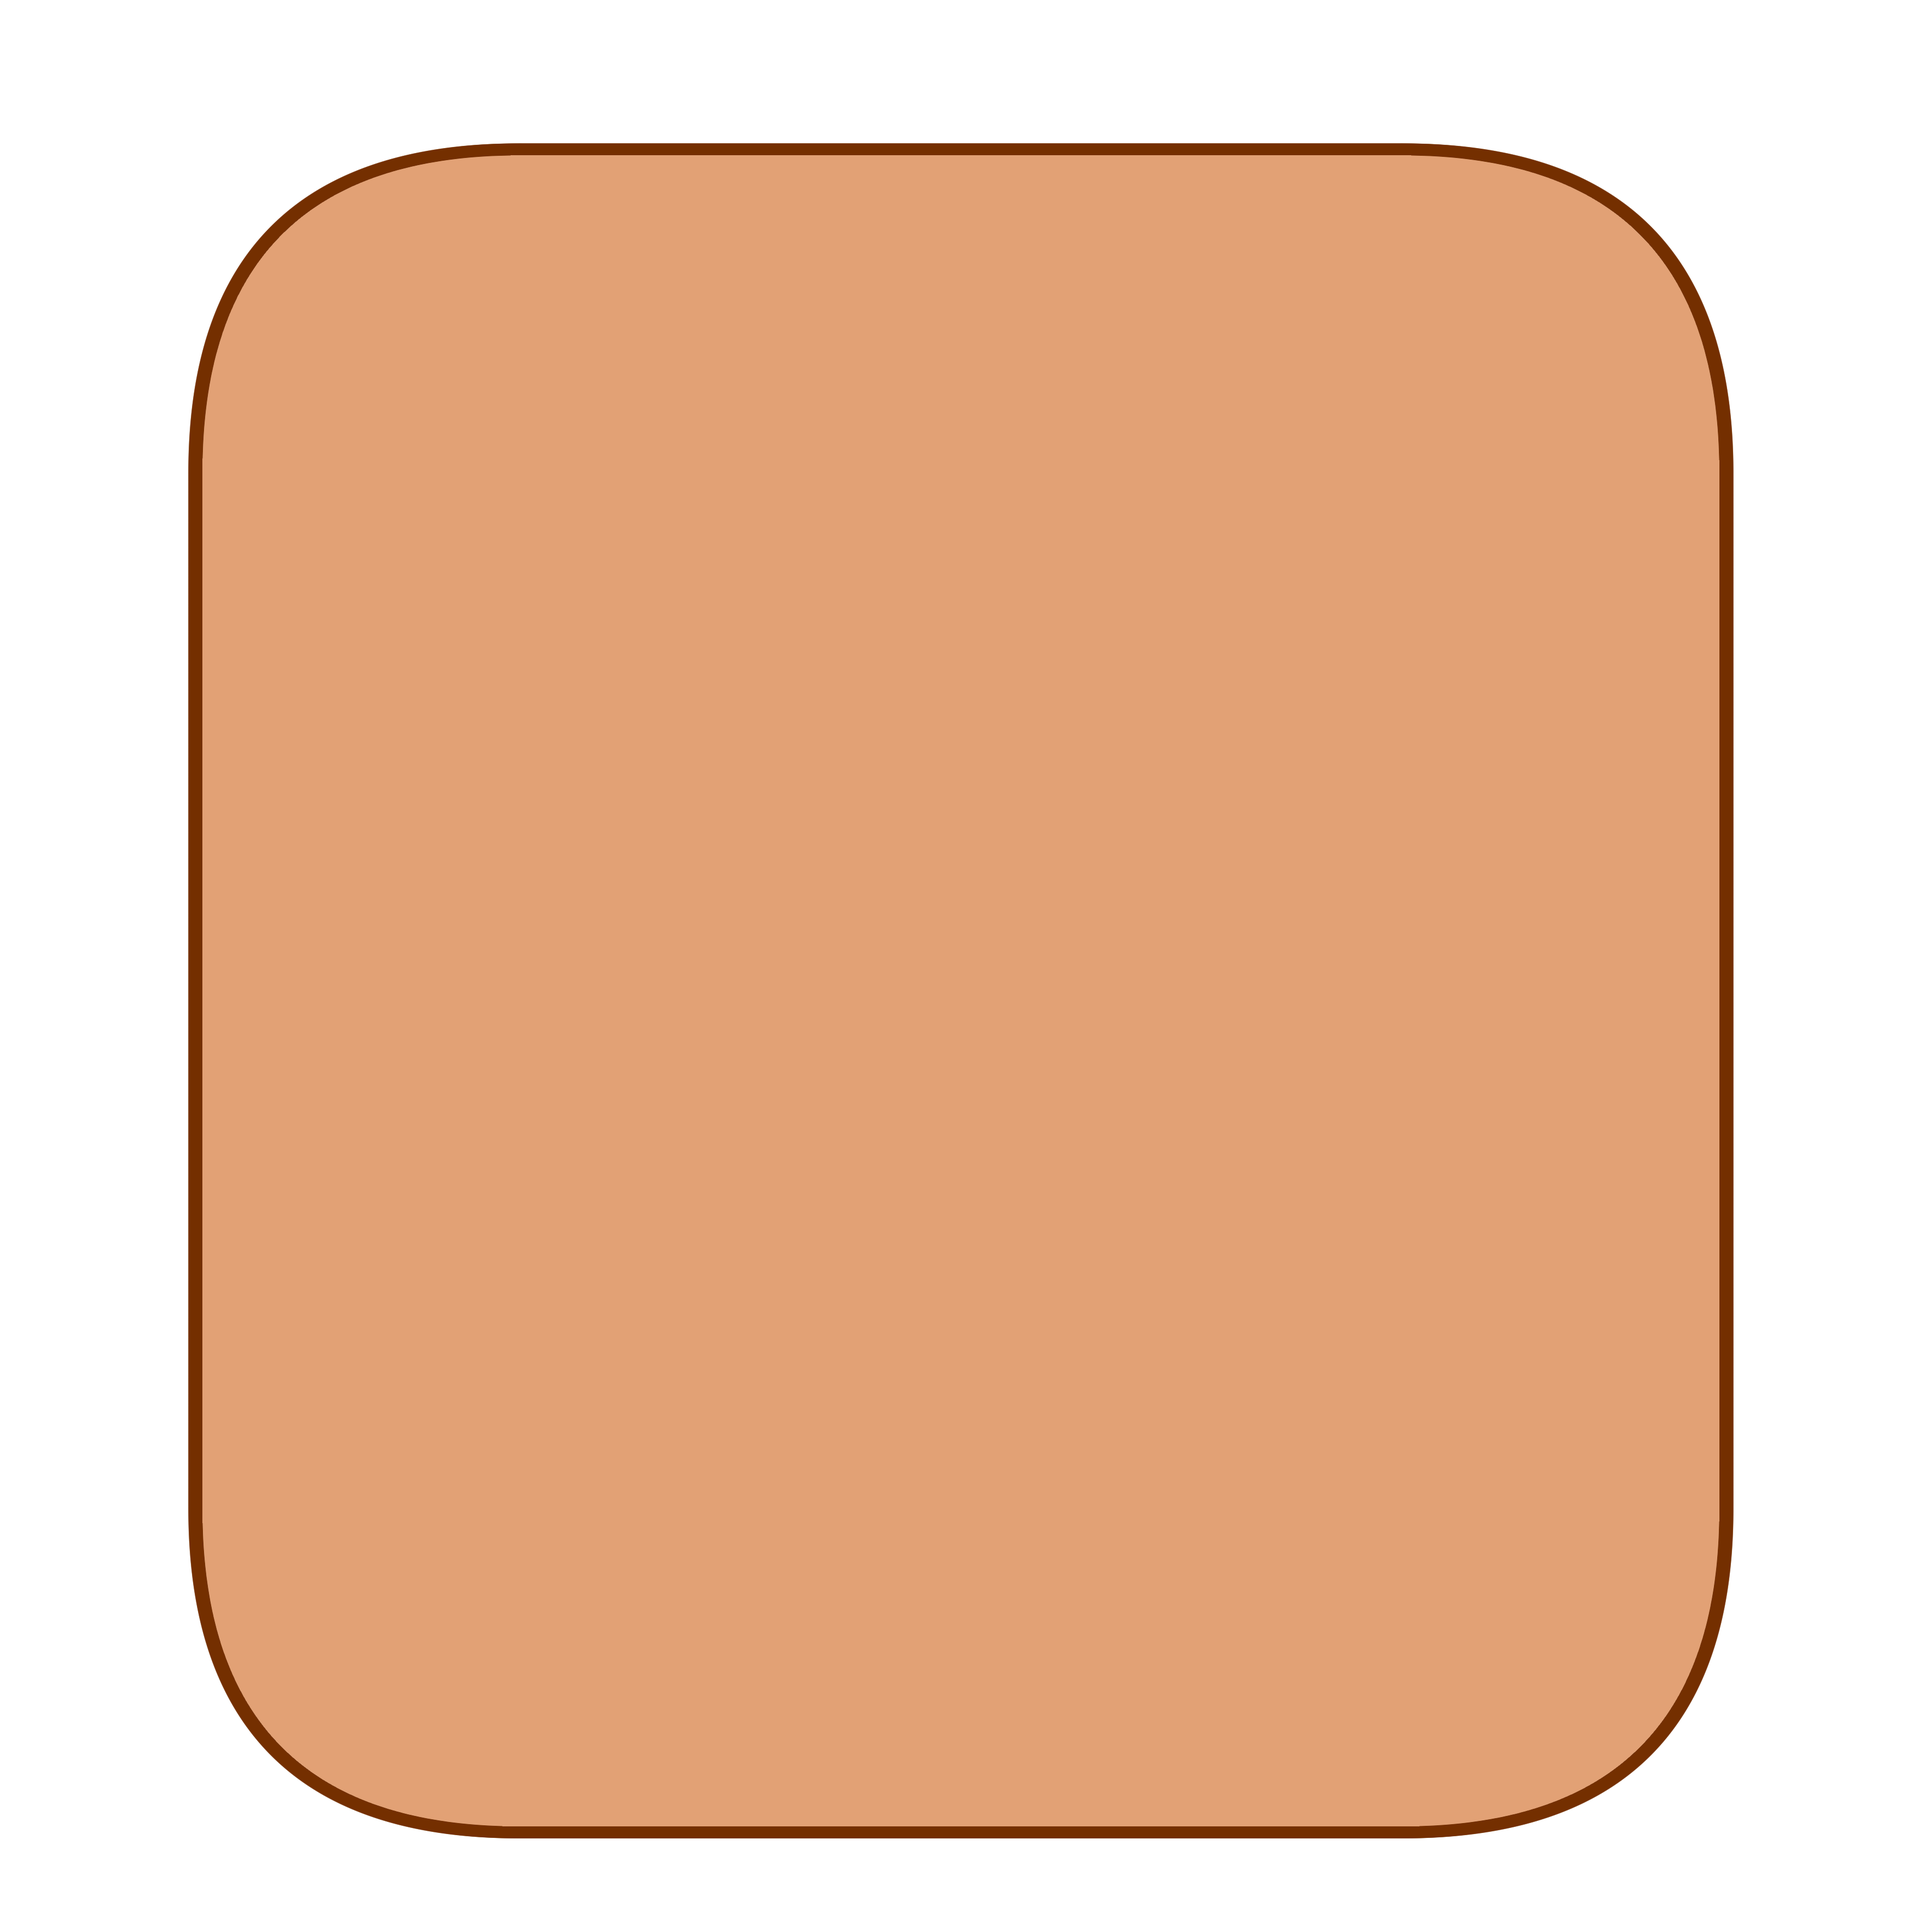
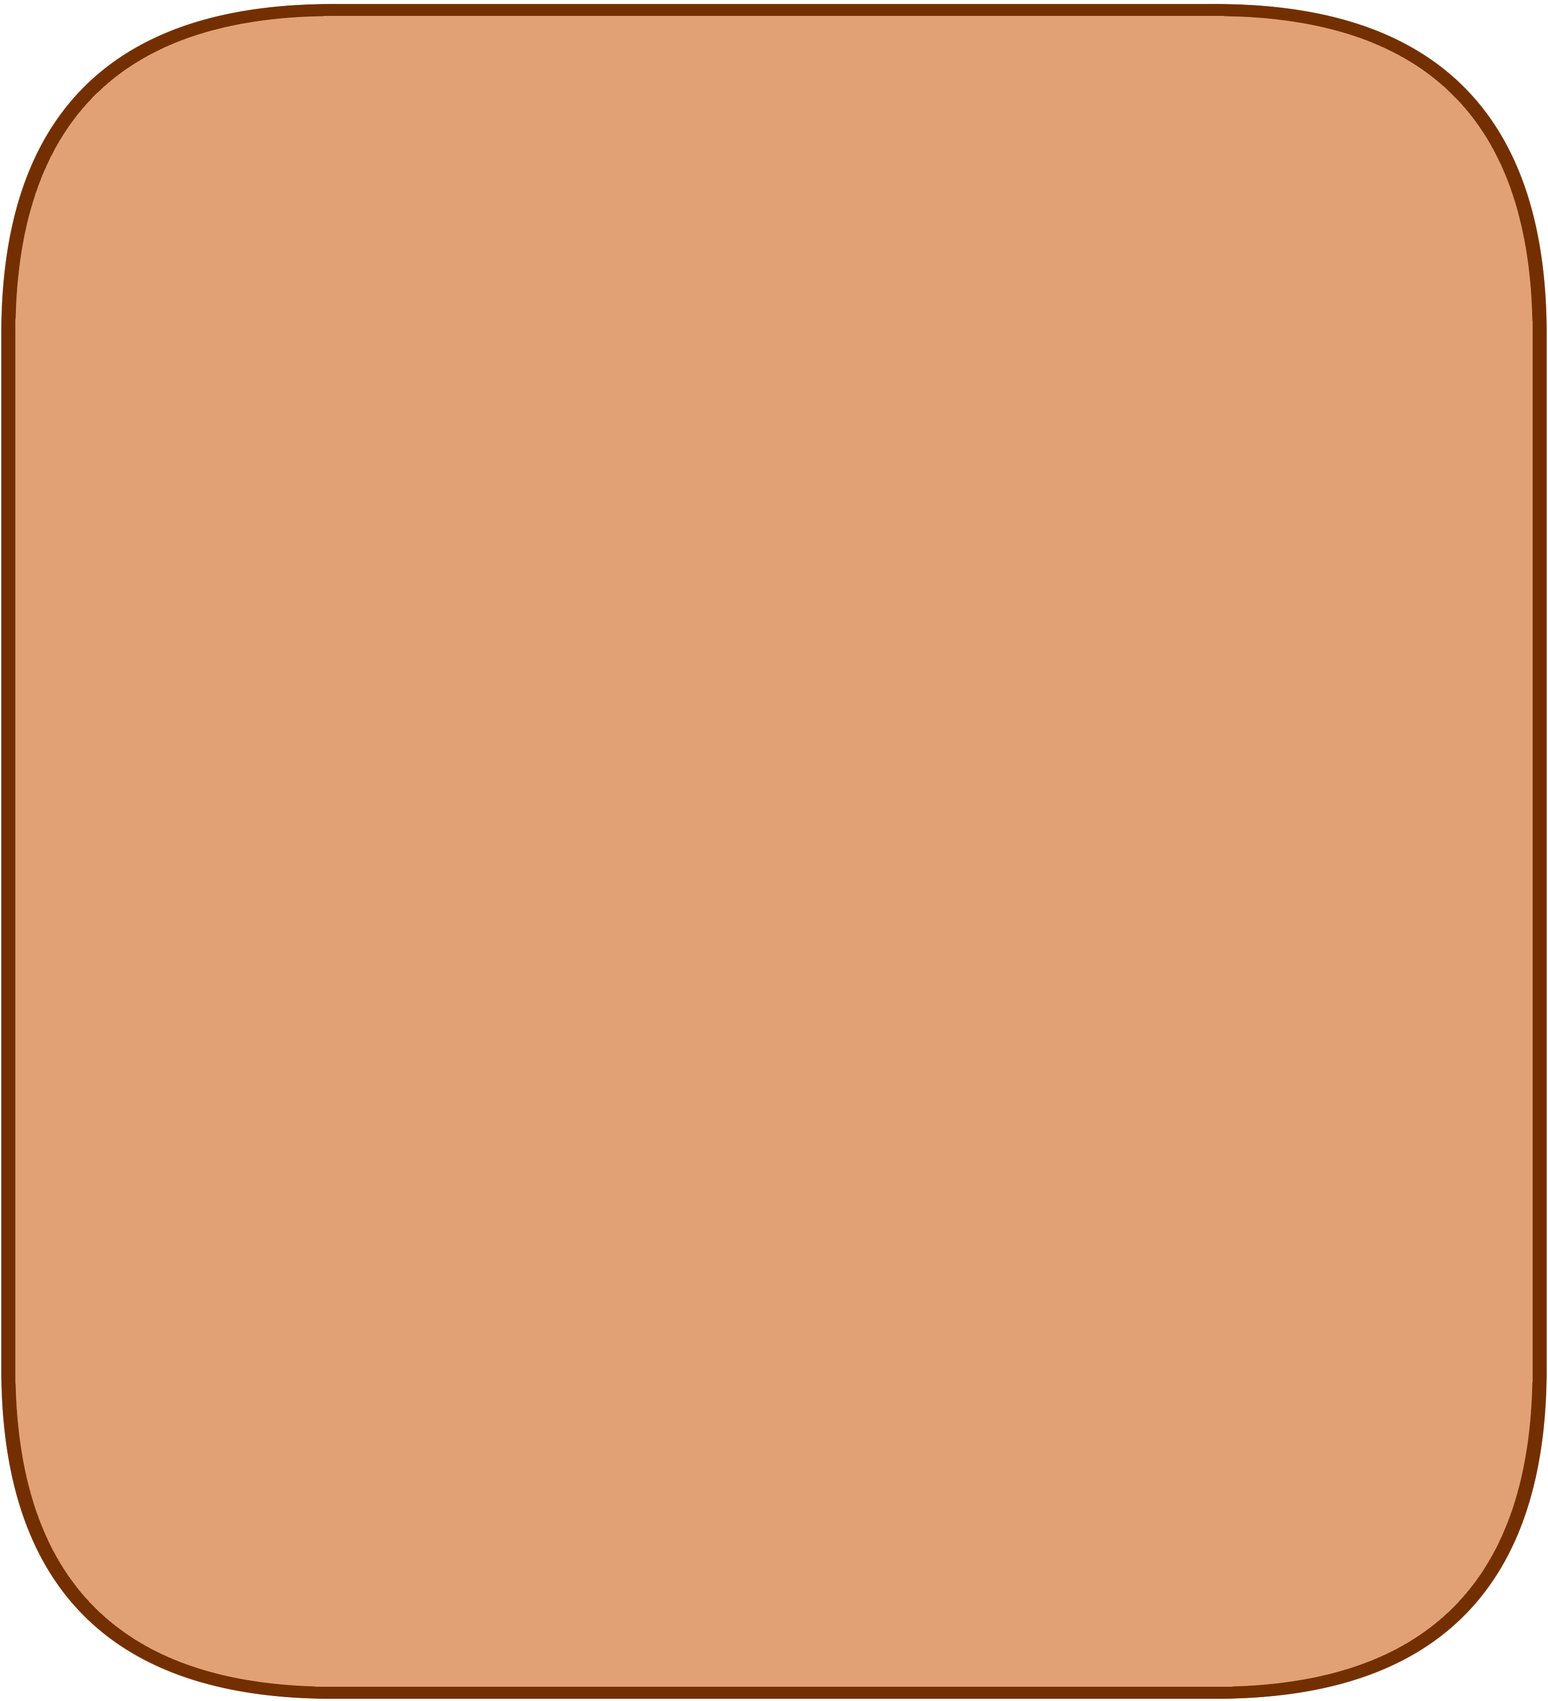
UI整理

diff --git a/src/high_score/system/high_score_text_system.rs b/src/high_score/system/high_score_text_system.rs
@@ -4,7 +4,7 @@ use crate::{
         font::font::{FontAsset, FontName},
         image::image::ImageName,
     },
-    game::ui::image_ui::{ImageUI, ImageUITrait},
+    game::ui::image_ui::{ImageSize, ImageUI, ImageUITrait},
     high_score::{
         component::high_score_text::{HighScoreTextDate, HighScoreTextScore},
         resource::{high_score::HighScore, high_scores::HighScores},
@@ -24,7 +24,7 @@ fn high_score_text_score(
             TextStyle {
                 font: FontAsset::asset(&asset_server, &FontName::HachiMaruPopReg),
                 font_size: 25.,
-                color: Color::BLACK,
+                color: Color::WHITE,
                 ..default()
             },
         )]),
@@ -43,7 +43,7 @@ fn high_score_text_date(
             TextStyle {
                 font: FontAsset::asset(&asset_server, &FontName::HachiMaruPopReg),
                 font_size: 25.,
-                color: Color::BLACK,
+                color: Color::WHITE,
                 ..default()
             },
         )]),
@@ -86,15 +86,16 @@ pub fn setup_high_score_text(
         return;
     }
 
-    let image_size = 350.0;
+    let image_size = ImageSize::new(340.0, 300.0);
+
     let mut piece_image_bundle =
-        ImageUI::image_bundle(ImageName::CatHand, &asset_server, &image_size);
+        ImageUI::image_bundle(ImageName::HighScoreFrame, &asset_server, &image_size);
     piece_image_bundle.style = Style {
         position_type: PositionType::Absolute,
         left: Val::Px(50.),
         bottom: Val::Px(50.),
-        height: Val::Px(image_size),
-        width: Val::Px(image_size),
+        height: Val::Px(*image_size.get_height()),
+        width: Val::Px(*image_size.get_width()),
         flex_direction: FlexDirection::Column,
         align_items: AlignItems::Center,
         ..piece_image_bundle.style

diff --git a/src/game/ui/image_ui.rs b/src/game/ui/image_ui.rs
@@ -12,15 +12,37 @@ use crate::asset::{
 
 pub struct ImageUI {}
 
-pub trait ImageUITrait {
+pub struct ImageSize {
+    height: f32,
+    width: f32,
+}
+
+impl ImageSize {
+    pub fn new(height: f32, width: f32) -> Self {
+        Self {
+            height: height,
+            width: width,
+        }
+    }
+
+    pub fn get_height(&self) -> &f32 {
+        return &self.height;
+    }
+
+    pub fn get_width(&self) -> &f32 {
+        return &self.width;
+    }
+}
+
+pub trait ImageUITrait<T> {
     fn image_bundle(
         image_name: ImageName,
         asset_server: &Res<AssetServer>,
-        image_size: &f32,
+        image_size: &T,
     ) -> ImageBundle;
 }
 
-impl ImageUITrait for ImageUI {
+impl ImageUITrait<f32> for ImageUI {
     fn image_bundle(
         image_name: ImageName,
         asset_server: &Res<AssetServer>,
@@ -31,6 +53,27 @@ impl ImageUITrait for ImageUI {
             style: Style {
                 width: Val::Px(*image_size),
                 height: Val::Px(*image_size),
+                ..default()
+            },
+            image: UiImage::new(image),
+            ..default()
+        };
+
+        return bundle;
+    }
+}
+
+impl ImageUITrait<ImageSize> for ImageUI {
+    fn image_bundle(
+        image_name: ImageName,
+        asset_server: &Res<AssetServer>,
+        image_size: &ImageSize,
+    ) -> ImageBundle {
+        let image = ImageAsset::asset(asset_server, &image_name);
+        let bundle = ImageBundle {
+            style: Style {
+                width: Val::Px((*image_size).width),
+                height: Val::Px((*image_size).height),
                 ..default()
             },
             image: UiImage::new(image),

diff --git a/src/piece/ui/next_piece_ui.rs b/src/piece/ui/next_piece_ui.rs
@@ -57,7 +57,7 @@ fn next_piece_title(child_builder: &mut ChildBuilder, asset_server: &Res<AssetSe
                 margin: UiRect {
                     left: Val::Px(0.0),
                     right: Val::Px(0.0),
-                    top: Val::Px(50.0),
+                    top: Val::Px(65.0),
                     bottom: Val::Px(0.0),
                 },
                 ..default()
@@ -70,7 +70,7 @@ fn next_piece_title(child_builder: &mut ChildBuilder, asset_server: &Res<AssetSe
                 TextStyle {
                     font: FontAsset::asset(&asset_server, &FontName::HachiMaruPopReg),
                     font_size: 50.,
-                    color: Color::BLACK,
+                    color: Color::WHITE,
                     ..default()
                 },
             )]),));
@@ -89,7 +89,7 @@ pub fn setup_display_next_piece(
     piece_image_bundle.style = Style {
         position_type: PositionType::Absolute,
         right: Val::Px(50.),
-        top: Val::Px(50.),
+        top: Val::Px(65.),
         height: Val::Px(image_size),
         width: Val::Px(image_size),
         flex_direction: FlexDirection::Column,

diff --git a/src/asset/image/image.rs b/src/asset/image/image.rs
@@ -33,6 +33,7 @@ pub enum ImageName {
     CatHand,
     CatSilhouette,
     CatMug,
+    HighScoreFrame,
 }
 impl AssetNameTrait for ImageName {
     fn asset_path(&self) -> String {
@@ -40,6 +41,7 @@ impl AssetNameTrait for ImageName {
             Self::CatHand => "img/cat-hand.png".to_string(),
             Self::CatSilhouette => "img/cat-silhouette.png".to_string(),
             Self::CatMug => "img/cat-mug.png".to_string(),
+            Self::HighScoreFrame => "img/high-score-frame.png".to_string(),
         }
     }
 }

diff --git a/src/piece/system/piece_system.rs b/src/piece/system/piece_system.rs
@@ -246,7 +246,7 @@ pub fn game_over_sensor_intersection_events(
     rapier_context: Res<RapierContext>,
     mut config: ResMut<RapierConfiguration>,
     mut exclude_piece_query: Query<&AnimalPieceComponent, Or<(With<Grab>, With<Falling>)>>,
-    mut piece_query: Query<&AnimalPieceComponent>,
+    piece_query: Query<&AnimalPieceComponent>,
     mut query: Query<Entity, (With<GameOverSeonsor>, With<Sensor>)>,
     mut app_state: ResMut<NextState<GameState>>,
 ) {
